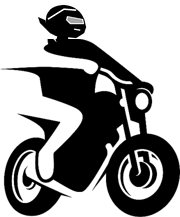
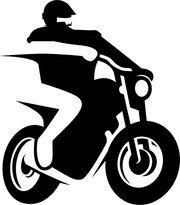
New rider silhouette from reference: smaller helmet, clean neck and shoulders
Claude-Session: https://claude.ai/code/session_011svZSxEu7wpuhhs3qeC1tv

diff --git a/sw.js b/sw.js
@@ -1,5 +1,5 @@
 // Waylink — offline shell. Caches the app's own files; fonts are cached as they load.
-const CACHE = 'waylink-v113';
+const CACHE = 'waylink-v114';
 const SHELL = ['./', 'index.html', 'styles.css', 'js/app.js', 'js/views.js', 'js/store.js', 'js/link.js', 'js/protocol.js', 'js/sound.js', 'js/icons-huge.js', 'img/onb/scene-light.webp', 'img/onb/scene-dark.webp', 'img/onb/link-light.webp', 'img/onb/link-dark.webp', 'img/grain.png', 'img/rider.png', 'manifest.webmanifest', 'icon.svg', 'img/logos/wl-loop-rust.svg', 'img/logos/wl-turns-rust.svg', 'img/logos/png/wl-loop-rust-180.png', 'img/bikes/manifest.json', 'img/bikes/ns200-art.webp', ];
 // Cache each file on its own, so one missing file can't block an update.
 self.addEventListener('install', (e) => { e.waitUntil(caches.open(CACHE).then((c) => Promise.all(SHELL.map((u) => c.add(new Request(u, { cache: 'reload' })).catch(() => {})))).then(() => self.skipWaiting())); });
